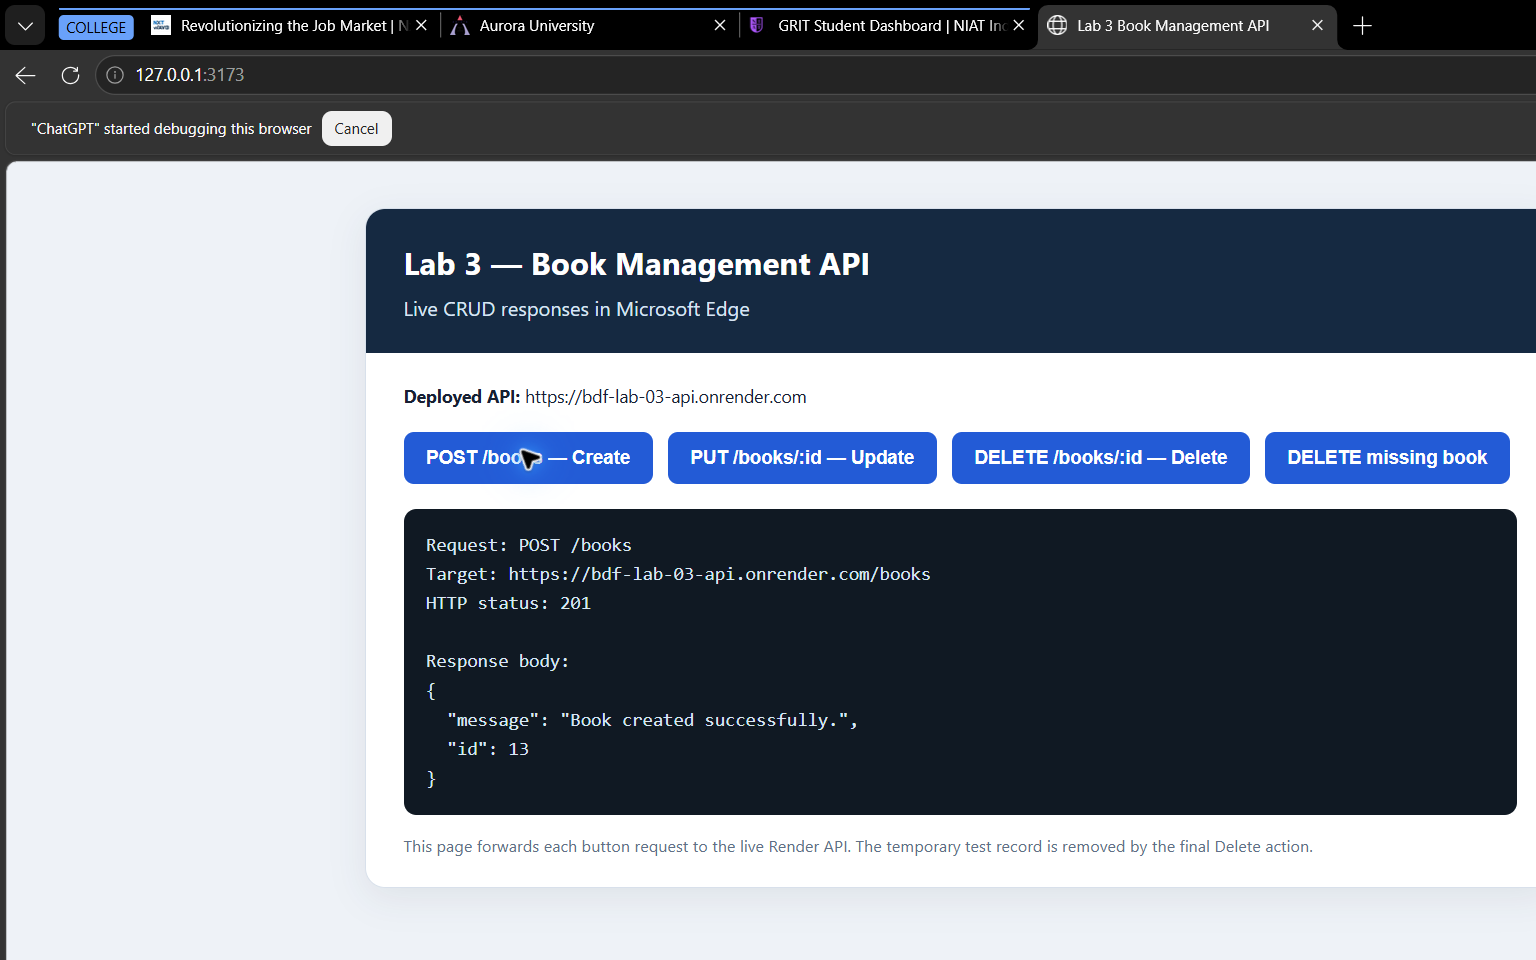
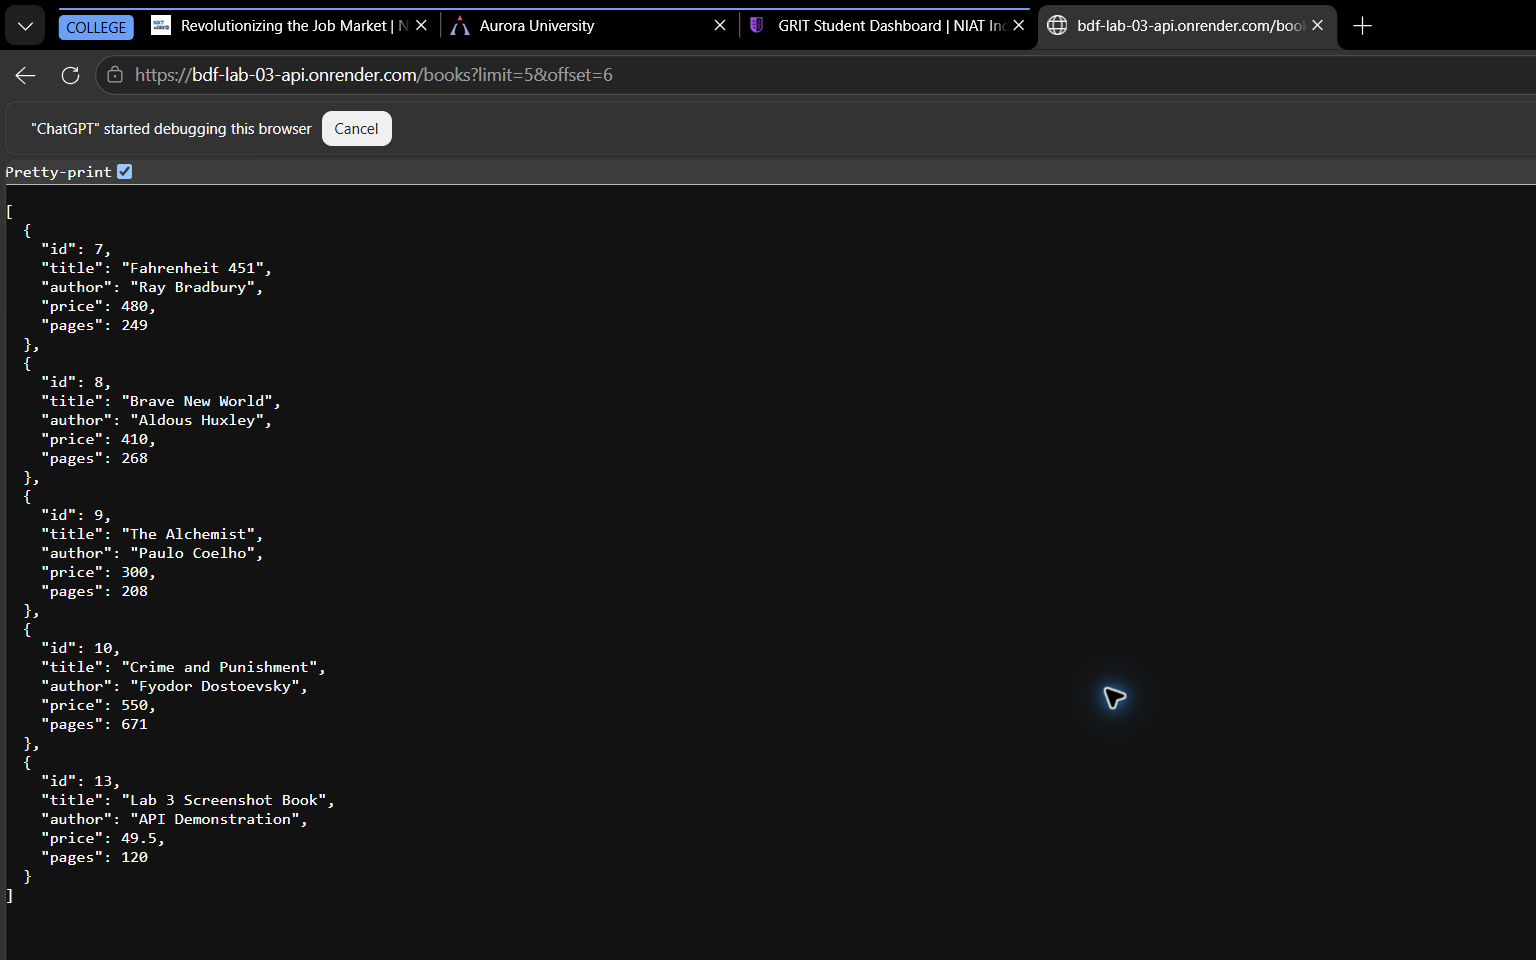
Show books in Lab 3 CRUD screenshots

diff --git a/lab-03/README.md b/lab-03/README.md
@@ -55,7 +55,7 @@ Use `Content-Type: application/json` for request bodies.
 
 ## Screenshots
 
-All screenshots below show live responses from the deployed Render API in Microsoft Edge. GET requests were opened directly; POST, PUT, and DELETE were run from a temporary browser capture page. The test book was deleted after the screenshots were taken.
+All screenshots below show live responses from the deployed Render API in Microsoft Edge. The create, update, and delete examples show the paginated book list before and after each change: the test book appears after creation, shows its updated details, and is absent after deletion. The test book was removed after the captures.
 
 ![Live API welcome page](screenshots/00_api_welcome.png)
 
